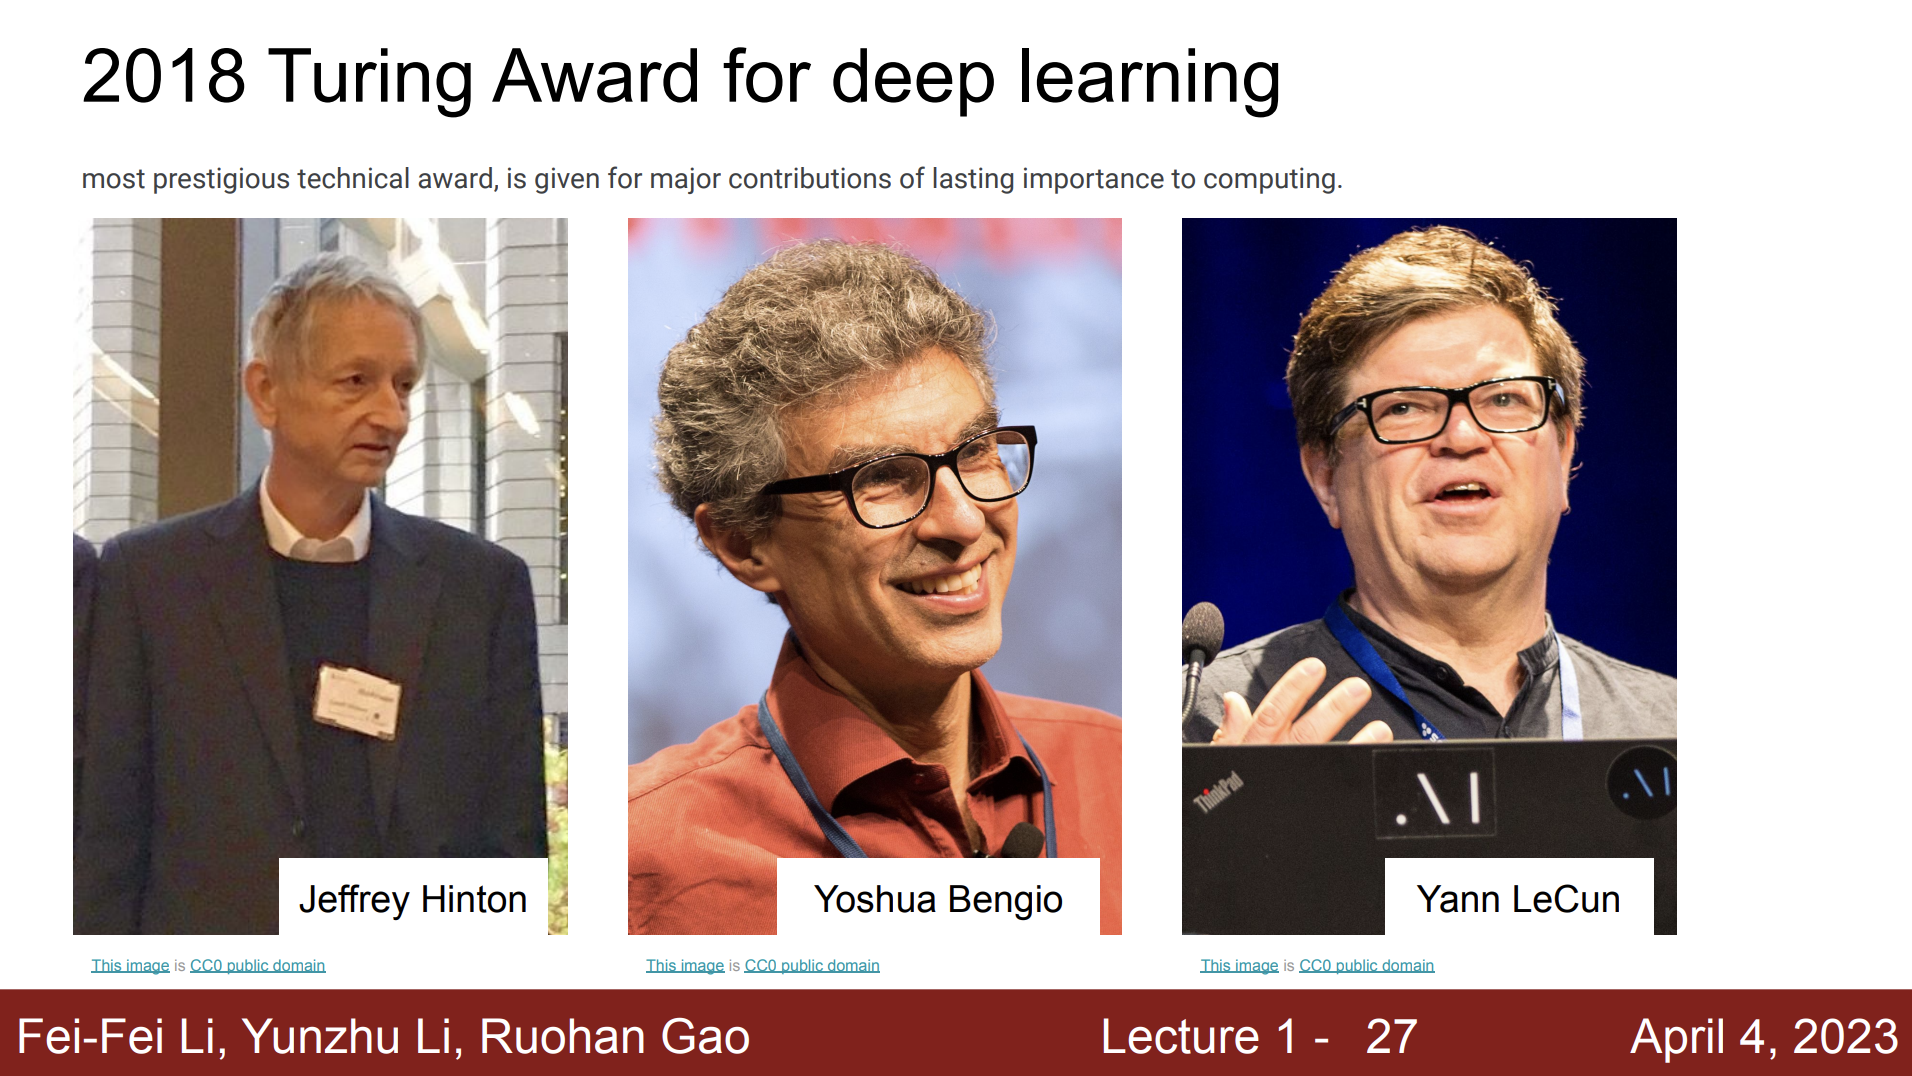
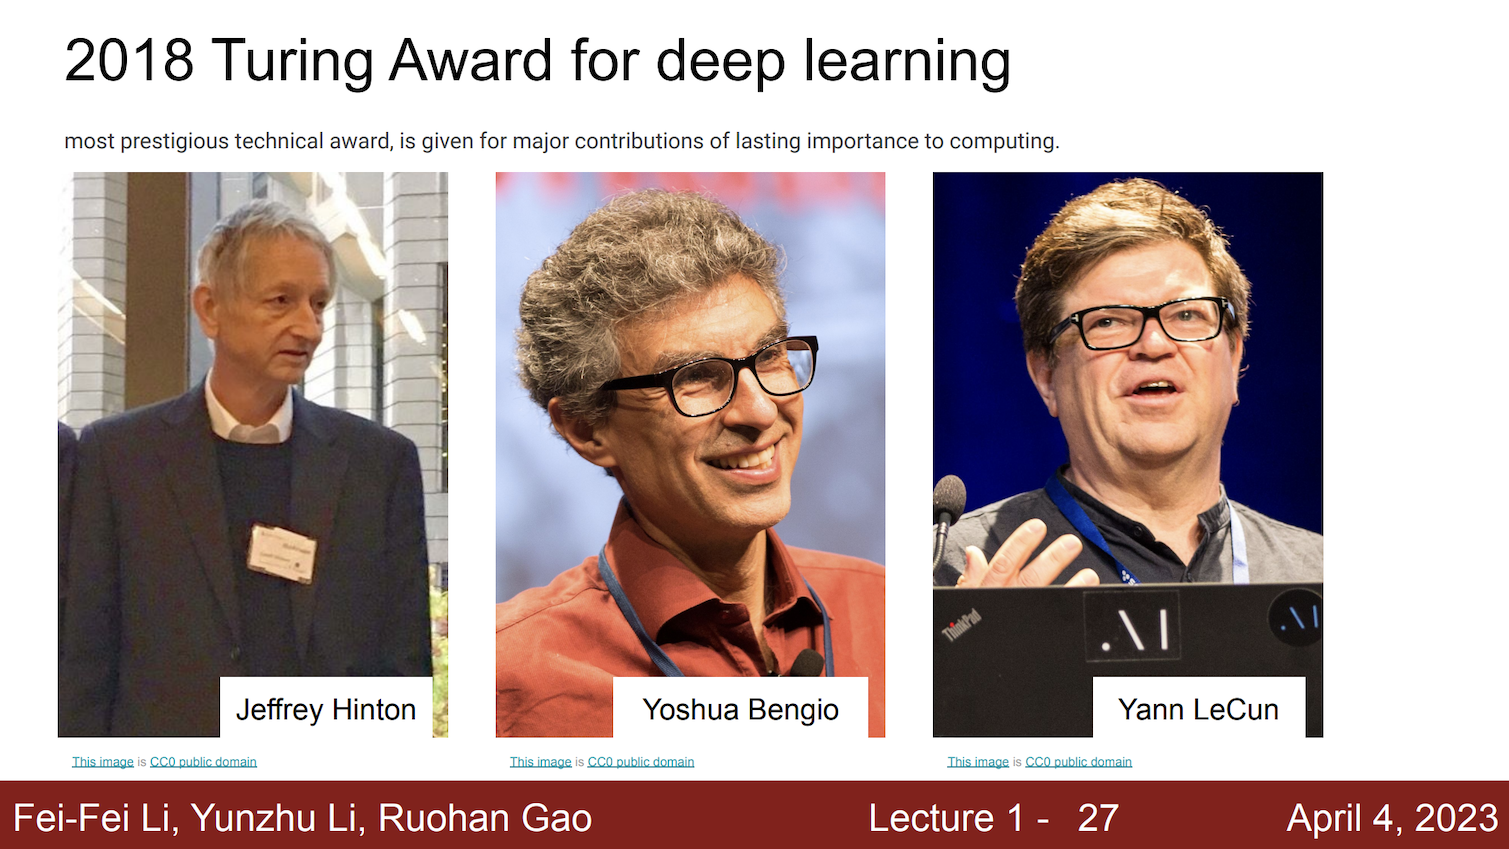
Updated README

diff --git a/README.md b/README.md
@@ -117,14 +117,6 @@ Below are the user case of converting images, PDFs, and Office documents into ma
 
 **Input**: ![test_image1.png - A slide about the Turing Award](test_docs/test_image1.png)
 
-**Command**:
-```bash
-python test_processor.py test_docs/test_image1.png \
-    --api-key lm_studio \
-    --base-url http://localhost:1234/v1 \
-    --model qwen2.5-vl-7b-instruct
-```
-
 **Output** (`test_output/test_image1.md`):
 ```markdown
 # 2018 Turing Award for deep learning
@@ -147,14 +139,6 @@ contributions of lasting importance to computing.
 #### Your Average Slides from a Course (a bit more complex)
 
 **Input**: ![test_image3.png - A slide about basic R programming](test_docs/test_image3.png)
-
-**Command**:
-```bash
-python test_processor.py test_docs/test_image3.png \
-    --api-key lm_studio \
-    --base-url http://localhost:1234/v1 \
-    --model qwen2.5-vl-7b-instruct
-```
 
 **Output** (`test_output/test_image3.md`):
 ```markdown
@@ -210,14 +194,6 @@ python test_processor.py test_docs/test_image3.png \
 
 **Input**: ![test_image2.png - A WeChat screenshot](test_docs/test_image2.png)
 
-**Command**:
-```bash
-python test_processor.py test_docs/test_image2.png \
-    --api-key lm_studio \
-    --base-url http://localhost:1234/v1 \
-    --model qwen2.5-vl-7b-instruct
-```
-
 **Output** (`test_output/test_image2.md`):
 ```markdown
 # WeChat Transcript
@@ -238,11 +214,6 @@ python test_processor.py test_docs/test_image2.png \
 #### Text Extraction (Default)
 
 **Input**: [sample_pdf.pdf](test_docs/sample_pdf.pdf)
-
-**Command**:
-```bash
-python test_processor.py test_docs/sample.pdf
-```
 
 **Output** (`test_output/sample_pdf_noVision.md`):
 
@@ -344,15 +315,6 @@ on smartphones and computers.
 
 #### Vision Processing (For Scanned Documents)
 
-**Command**:
-```bash
-python test_processor.py test_docs/sample.pdf \
-    --api-key lmstudio \
-    --base-url http://localhost:1234/v1 \
-    --model qwen2.5-vl-7b-instruct \
-    --force-vision
-```
-
 **Output** (`test_output/sample_pdf_vision.md`):
 
 With the superb document parsing capability of Qwen2.5 VL, the output is much cleaner, and original structure is preserved.
@@ -415,11 +377,6 @@ Office document are structured in nature, no vision processing is needed.
 
 **Input**: [sample_docx.docx](test_docs/sample_docx.docx)
 
-**Command**:
-```bash
-python test_processor.py test_docs/sample.docx
-```
-
 **Output** (`test_output/sample_docx.md`):
 ```markdown
 # This is a Level 1 Heading
@@ -434,11 +391,6 @@ This is the normal text
 #### PowerPoint Presentations (PPTX)
 
 **Input**: [sample_pptx.pptx](test_docs/sample_pptx.pptx)
-
-**Command**:
-```bash
-python test_processor.py test_docs/sample.pptx
-```
 
 **Output** (`test_output/sample_pptx.md`):
 ```markdown
